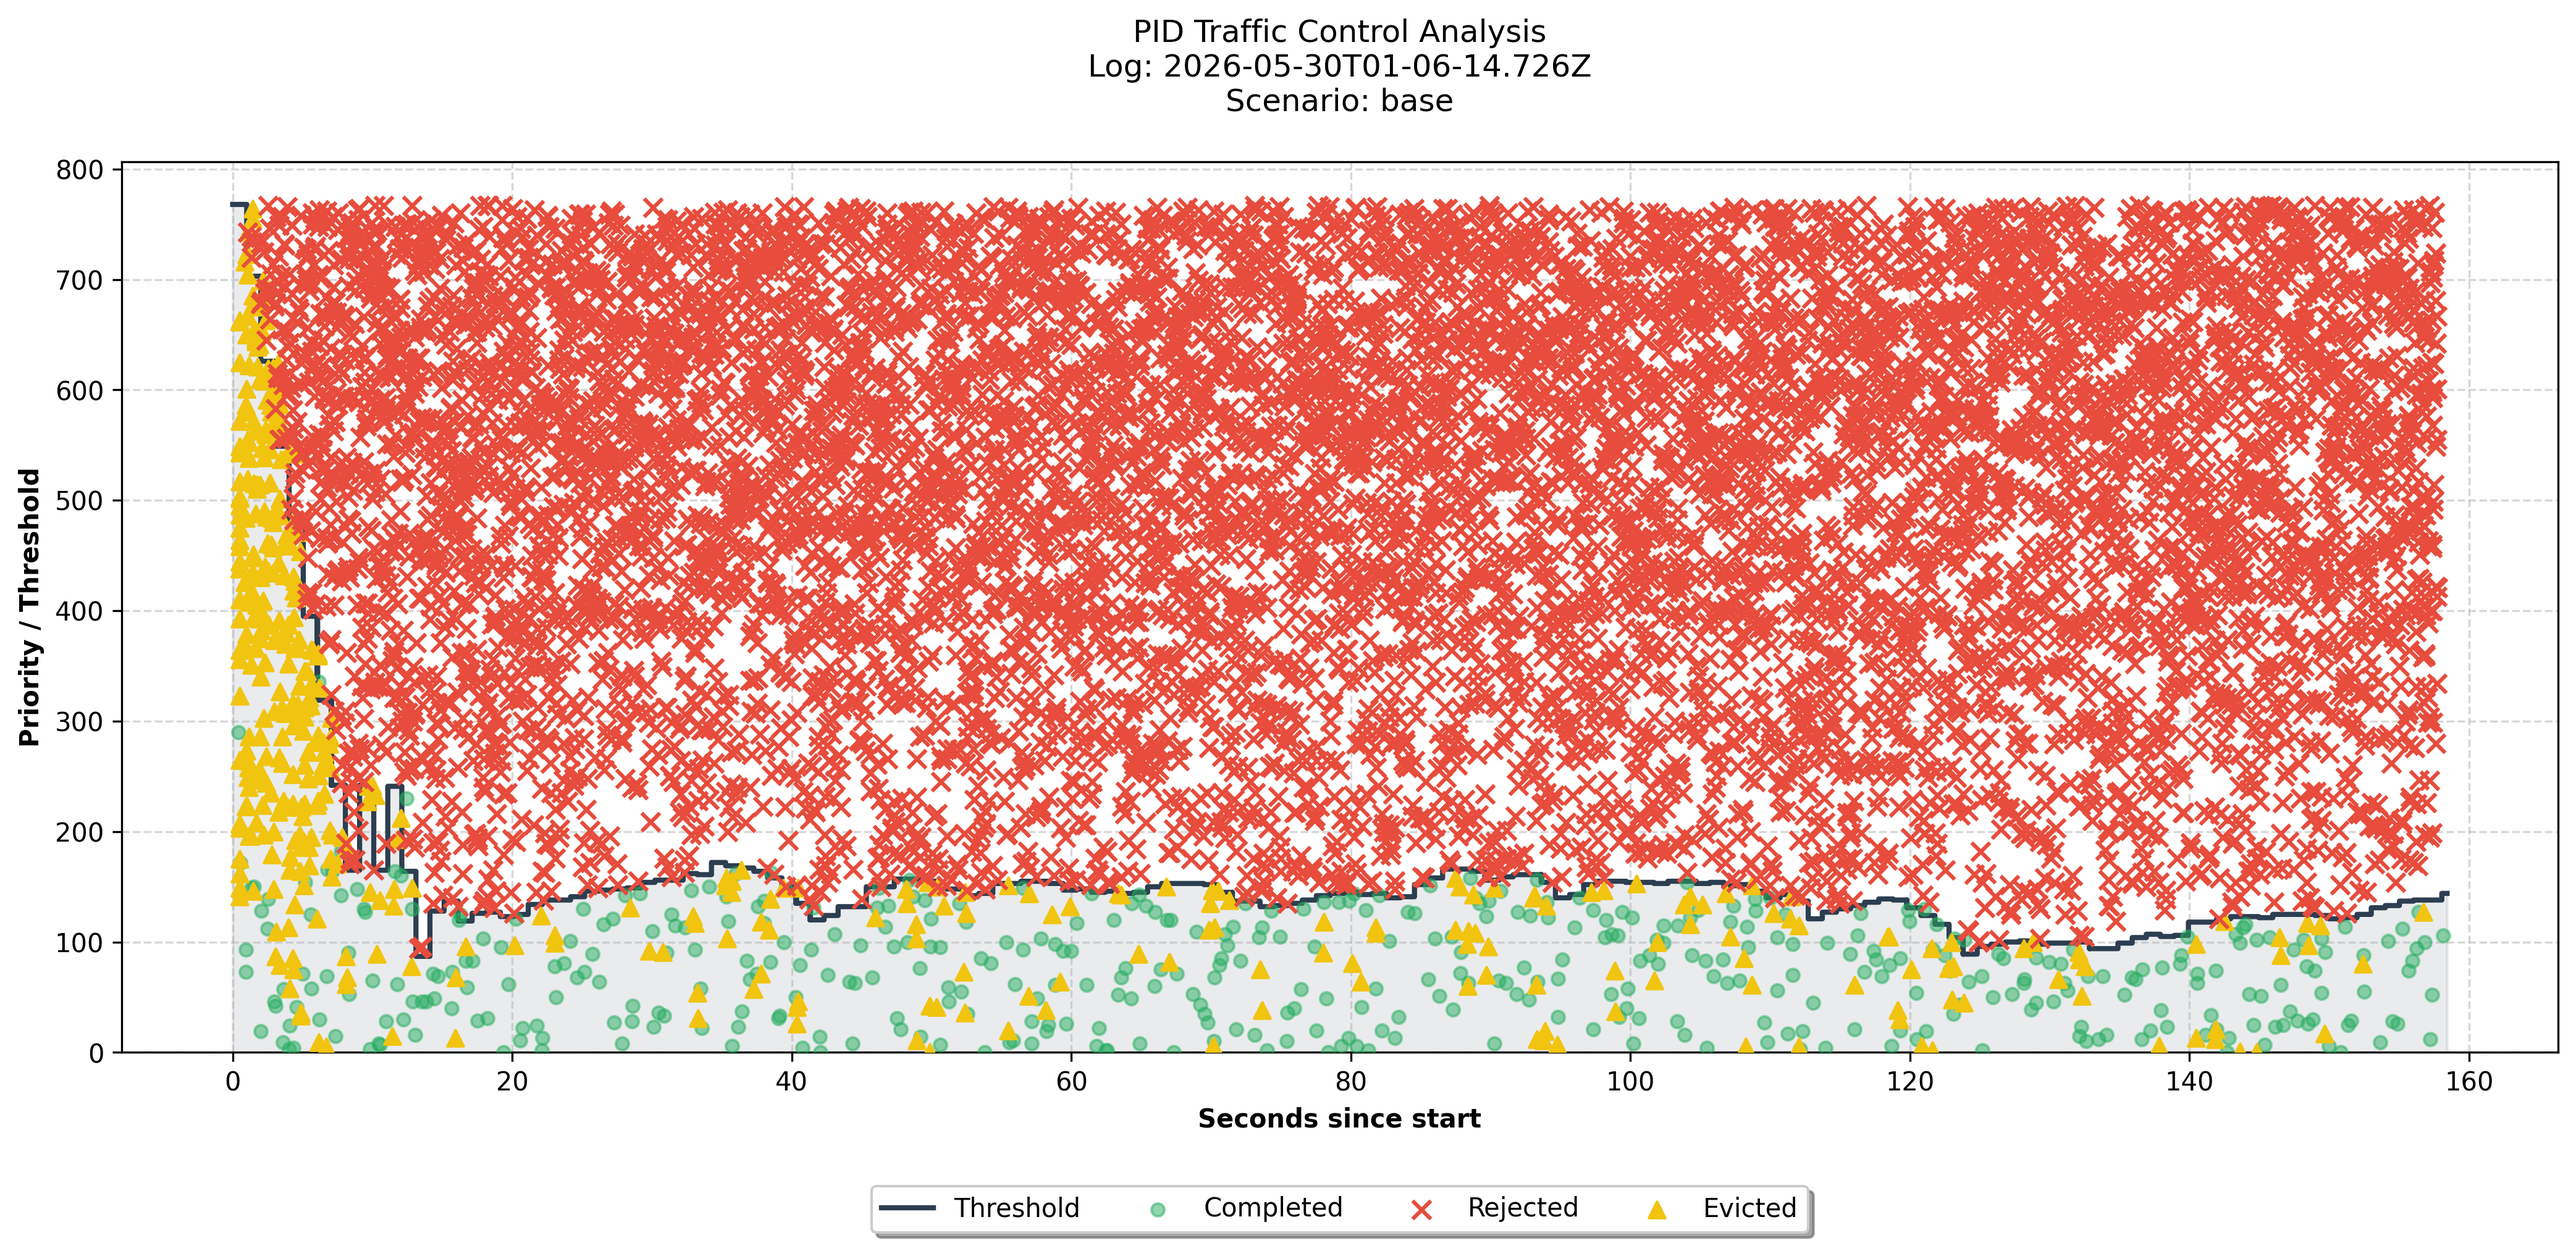
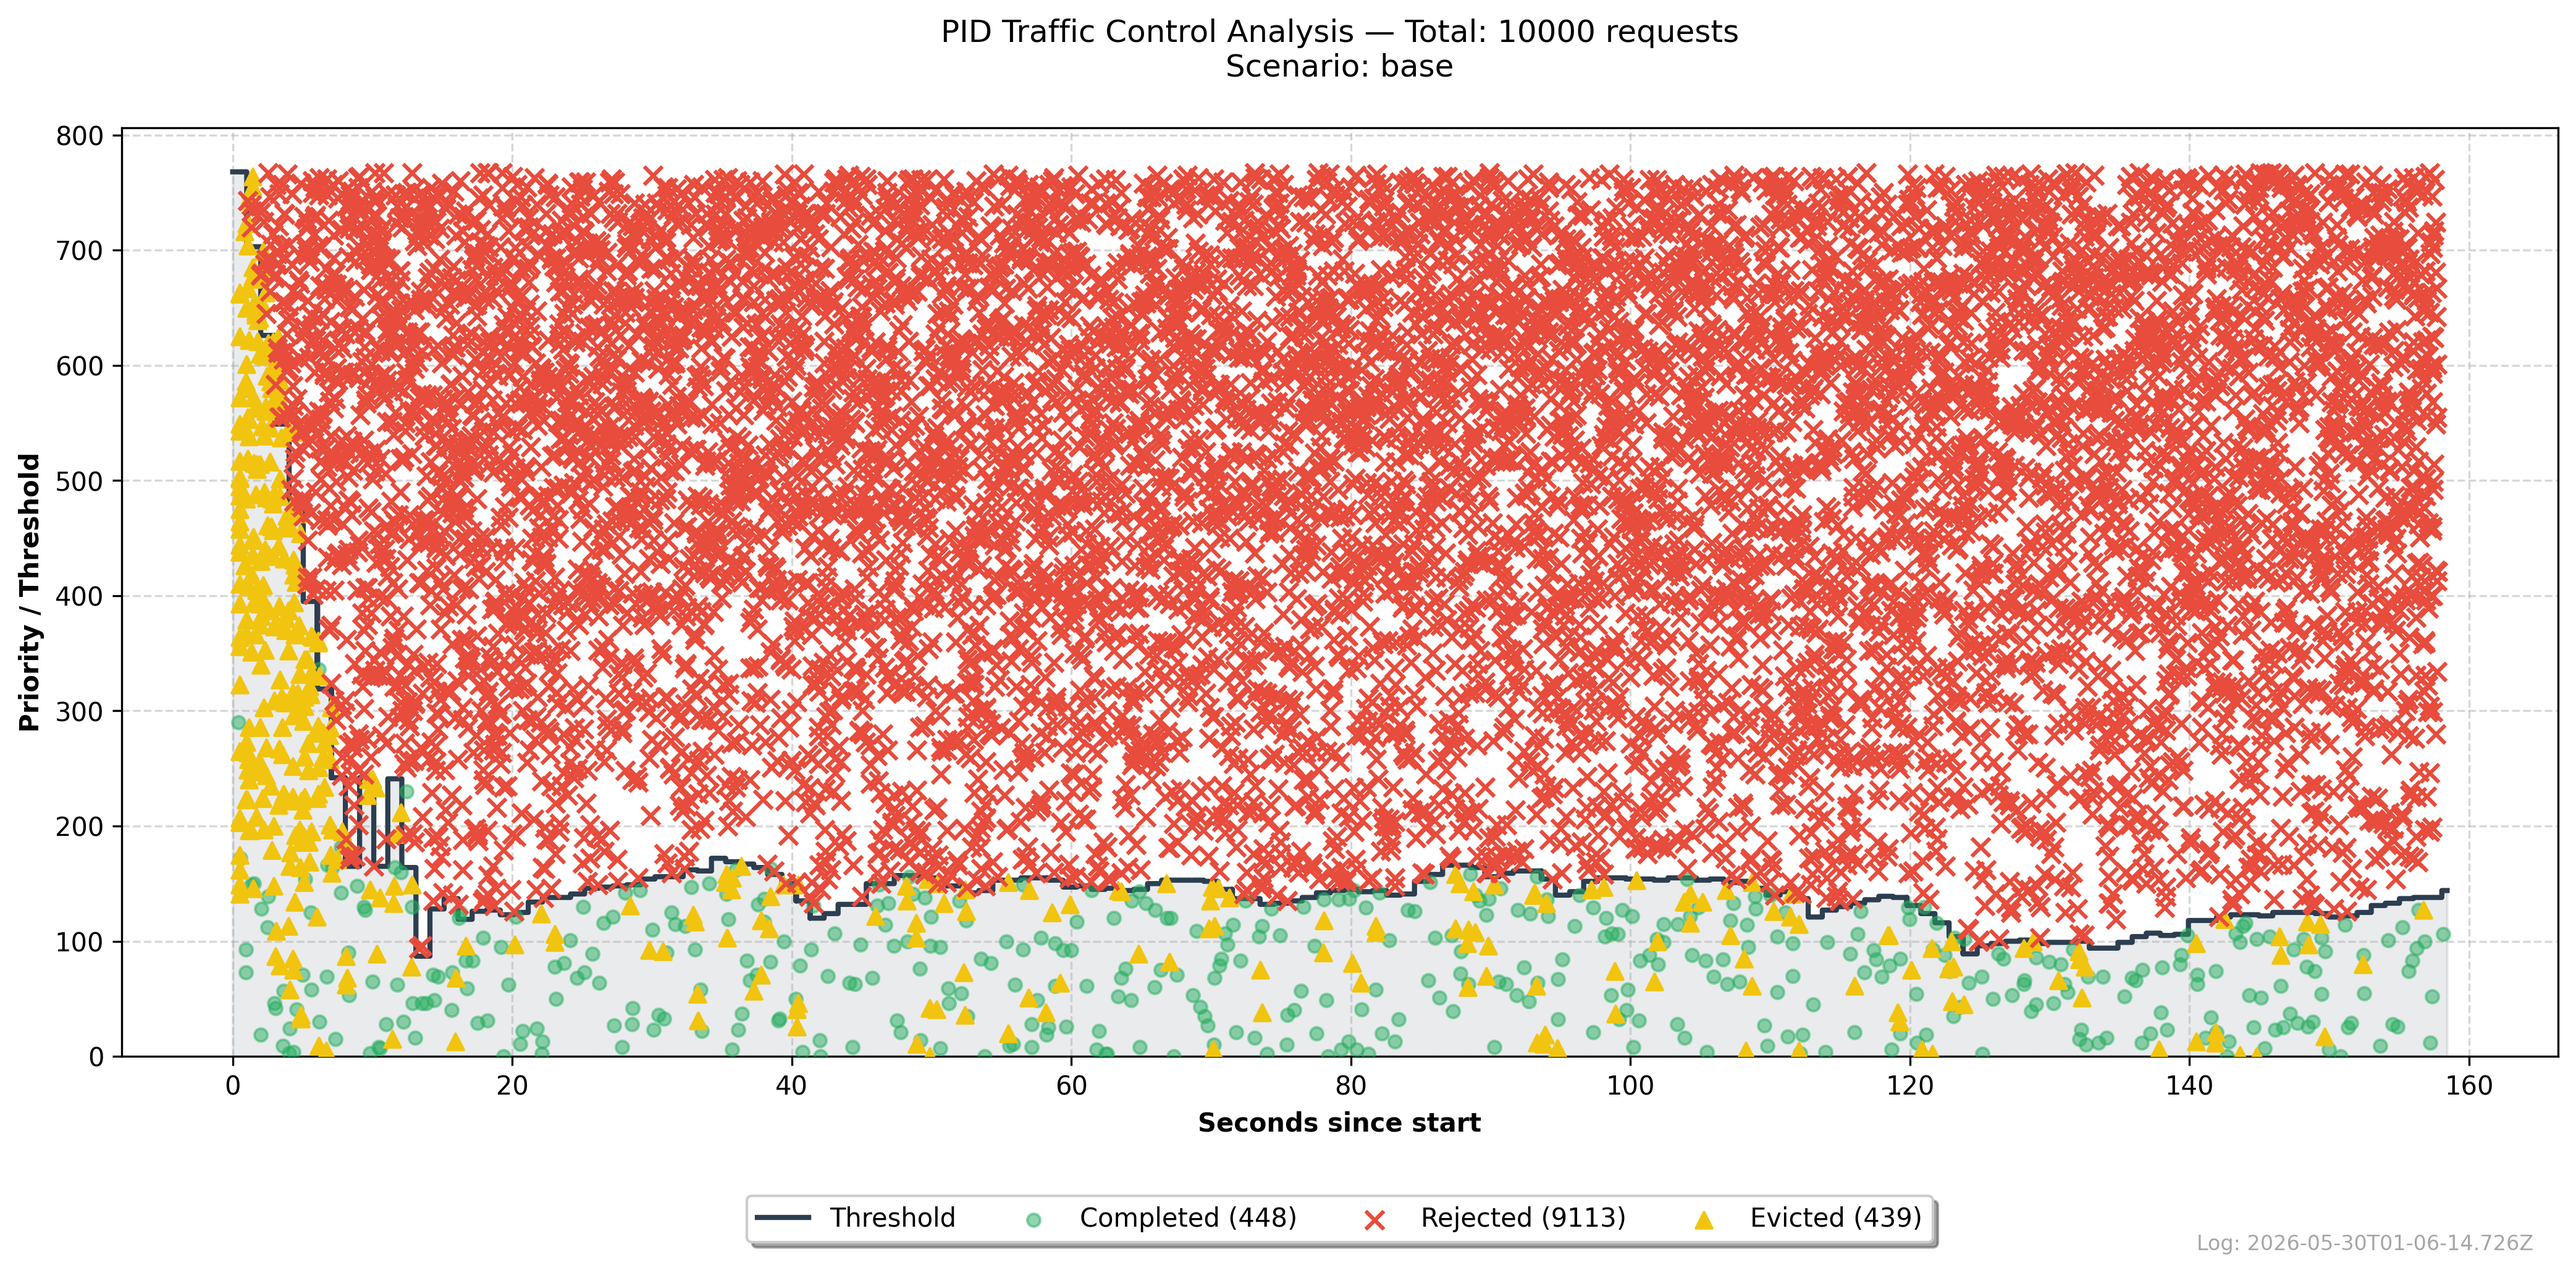
fix(simulation): improve log reader generated image

diff --git a/simulation/scripts/logs_reader.py b/simulation/scripts/logs_reader.py
@@ -107,6 +107,8 @@ if threshold:
     )
     ax.fill_between(t_ts, t_vs, step="post", alpha=0.1, color="#2c3e50")
 
+total_reqs = len(completed) + len(rejected) + len(evicted)
+
 if completed:
     ax.scatter(
         get_t(completed),
@@ -114,7 +116,7 @@ if completed:
         s=25,
         alpha=0.5,
         color="#27ae60",
-        label="Completed",
+        label=f"Completed ({len(completed)})",
         zorder=4,
     )
 
@@ -125,7 +127,7 @@ if rejected:
         s=50,
         marker="x",
         color="#e74c3c",
-        label="Rejected",
+        label=f"Rejected ({len(rejected)})",
         zorder=5,
     )
 
@@ -136,7 +138,7 @@ if evicted:
         s=40,
         marker="^",
         color="#f1c40f",
-        label="Evicted",
+        label=f"Evicted ({len(evicted)})",
         zorder=4,
     )
 
@@ -148,8 +150,13 @@ args = [a for a in sys.argv[1:] if not a.startswith("--")]
 scenario_name = args[0] if args else None
 scenario_line = f"\nScenario: {scenario_name}" if scenario_name else ""
 
-title_text = f"PID Traffic Control Analysis\nLog: {display_log_name}{scenario_line}"
+title_text = f"PID Traffic Control Analysis — Total: {total_reqs} requests{scenario_line}"
 ax.set_title(f"{title_text}", pad=20)
+
+fig.text(
+    0.98, 0.02, f"Log: {display_log_name}",
+    ha="right", va="bottom", fontsize=8, color="gray", alpha=0.7,
+)
 
 ax.grid(True, which="both", linestyle="--", alpha=0.5)
 ax.set_ylim(0, None)
